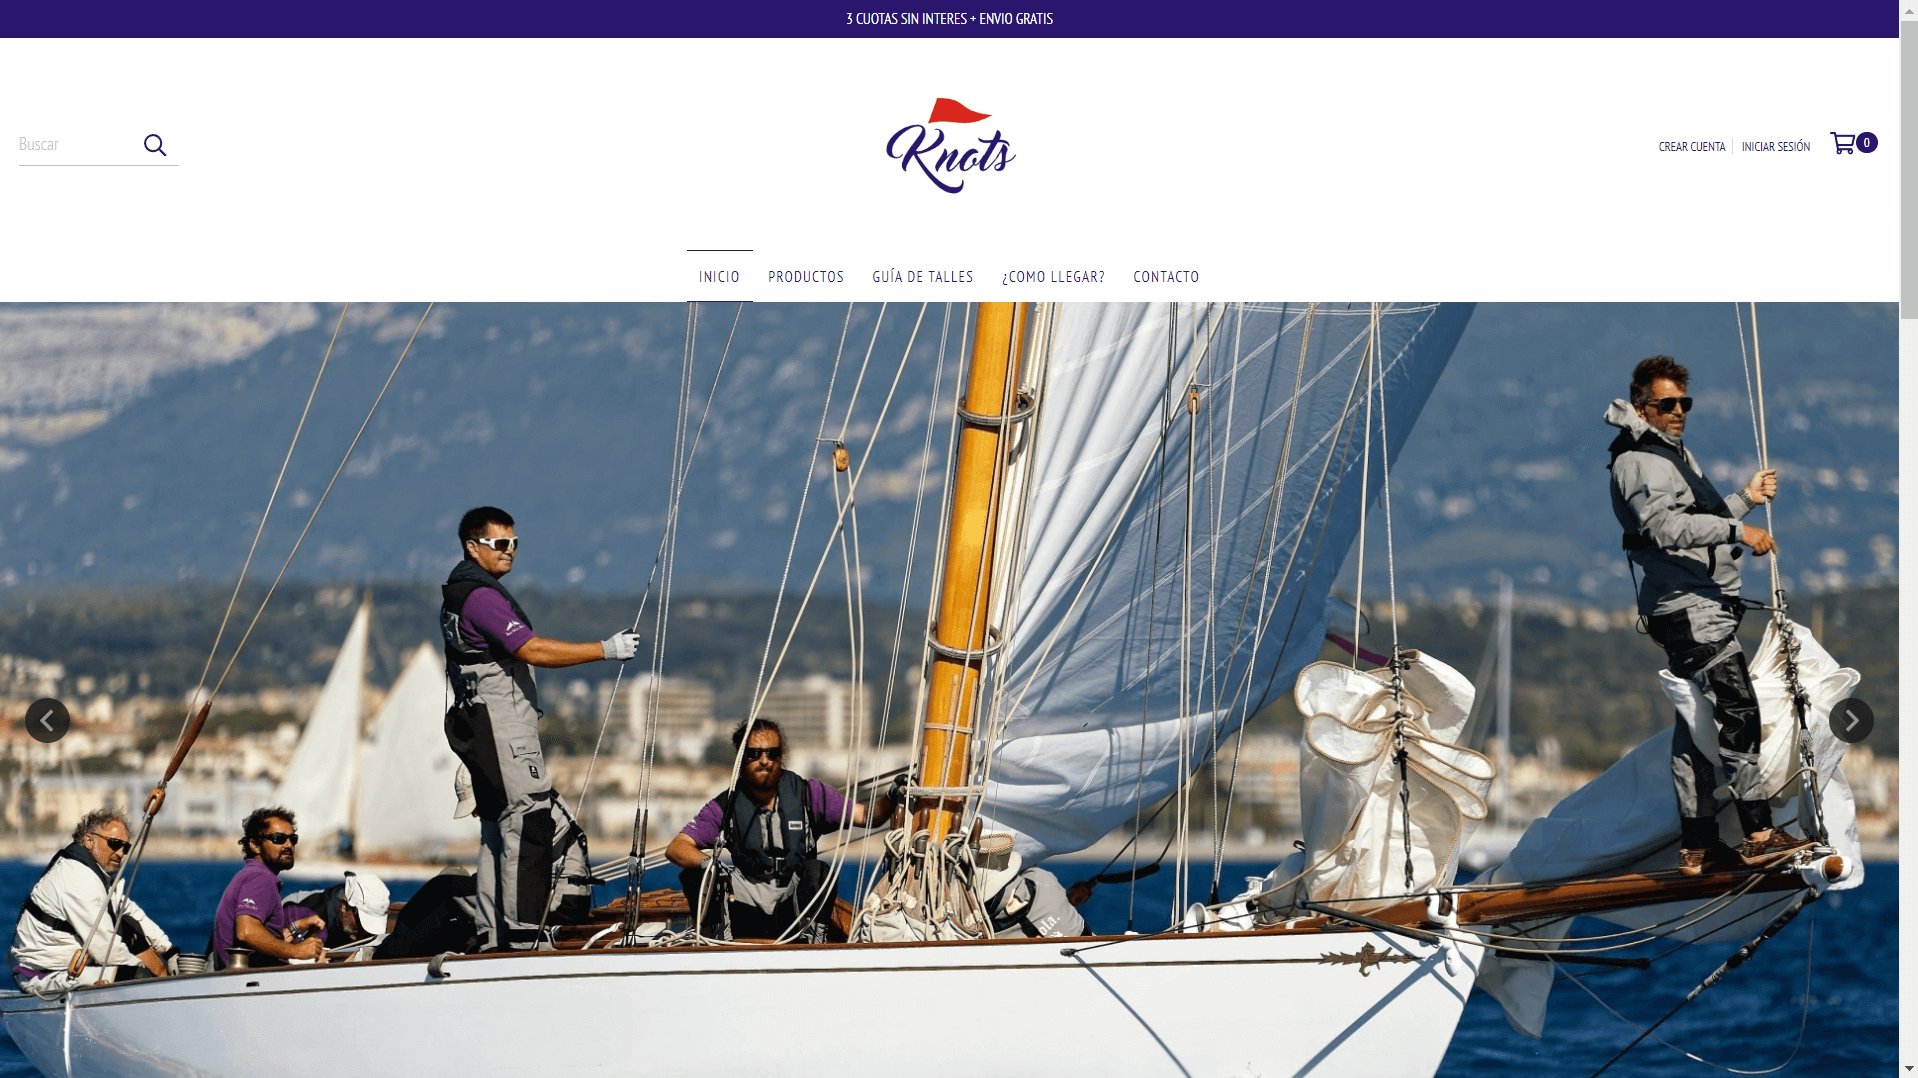
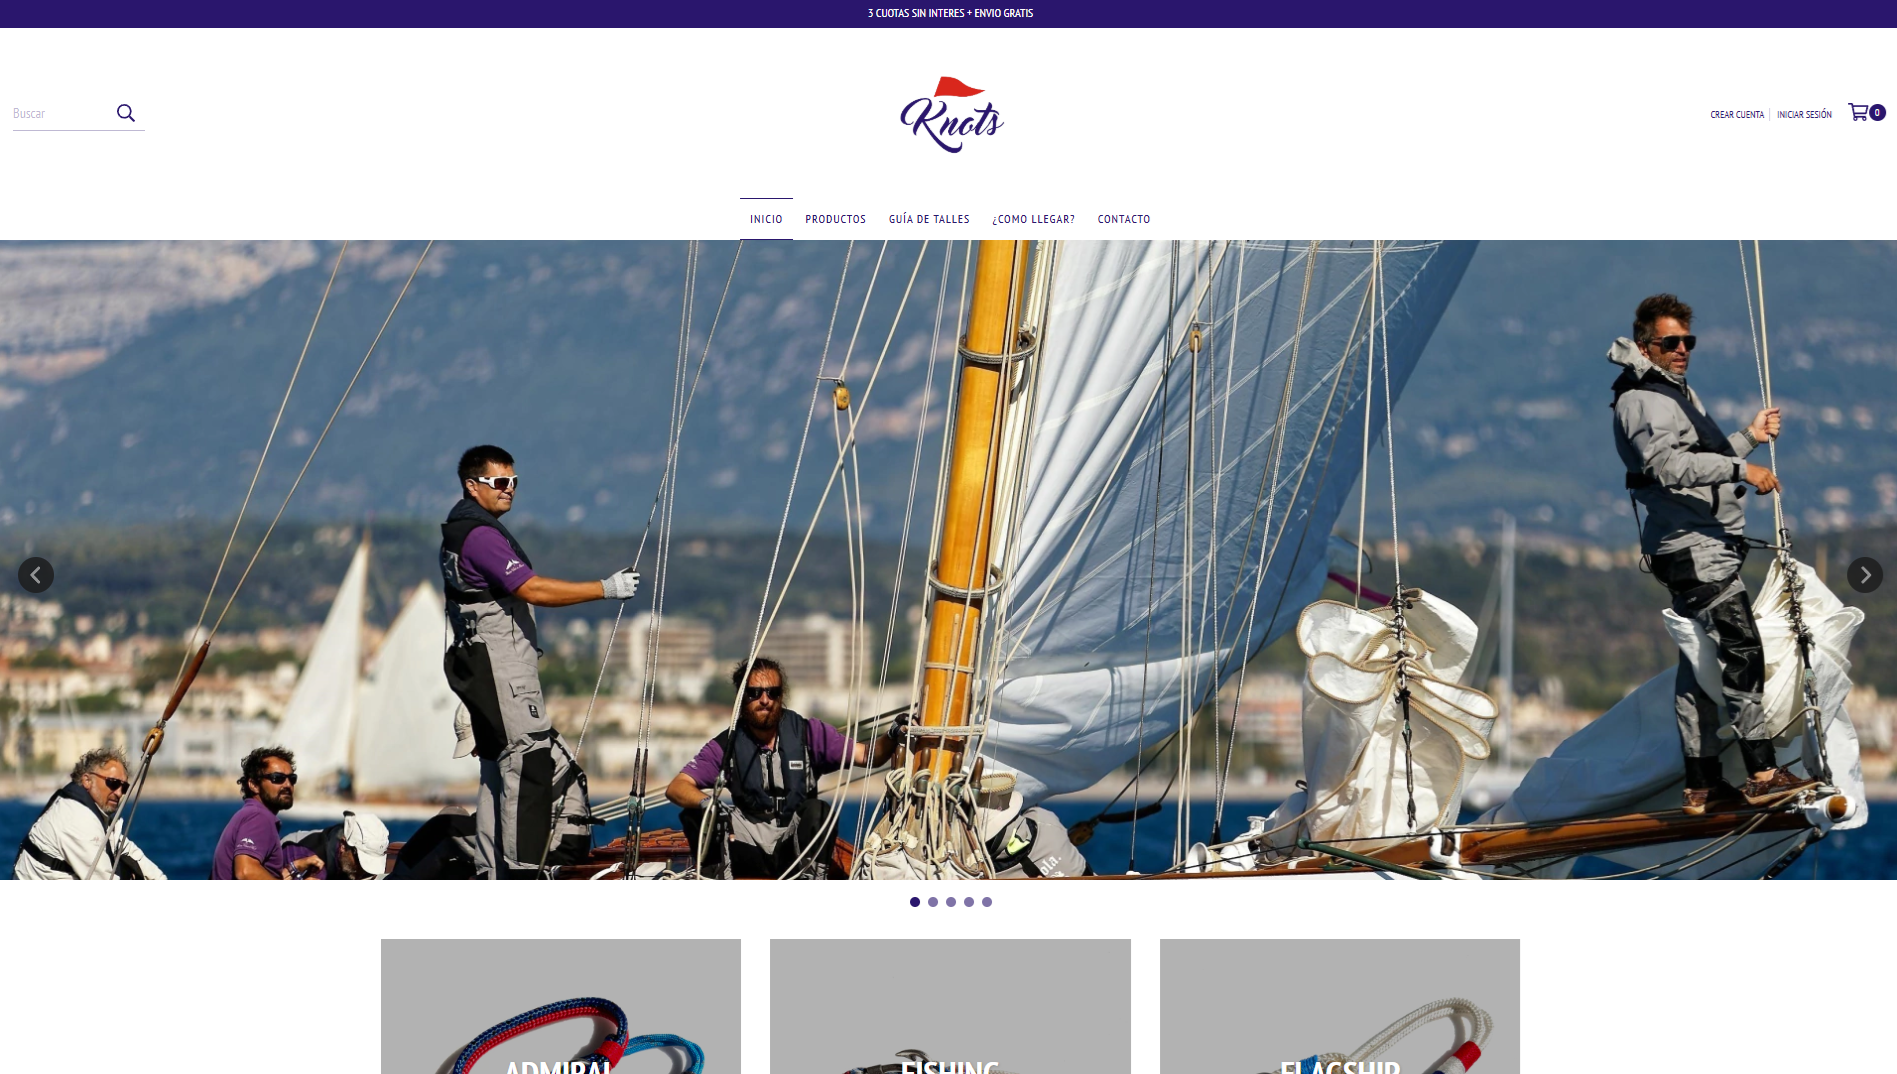
.

diff --git a/clientes.html b/clientes.html
@@ -803,7 +803,7 @@
                   <button
                     class="btn"
                     type="button"
-                    data-lightbox="assets/img/portfolio/TIENDA/knots/tienda_knots.png"
+                    data-lightbox="assets/img/portfolio/TIENDA/knots/web.png"
                   >
                     Ver preview
                   </button>
